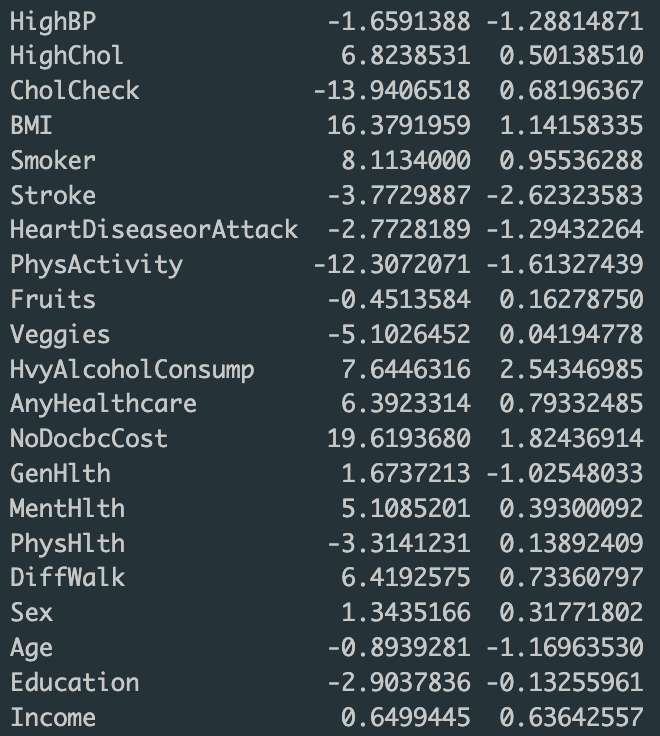
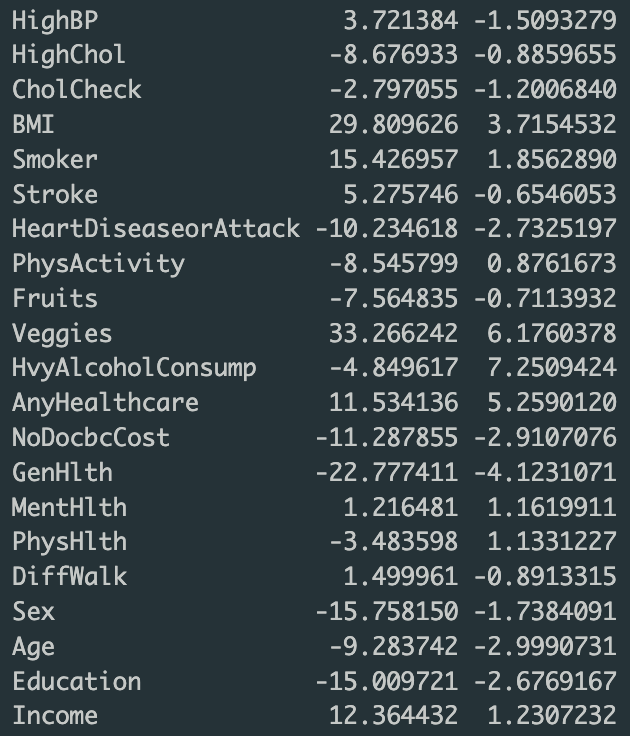
Add files via upload

Changed region(s): [[0.4825, 0.0, 0.9952, 1.0], [0.0, 0.0, 0.4825, 1.0]]

diff --git a/project 6.html b/project 6.html
@@ -334,10 +334,11 @@ Y_hat <- sigmoid(Z_3)
 								<p>
 									<h3>Backward Propagation</h3>
 									Now that we have our matrices initialized, we can begin propagating forward and backward through the network, taking a step in the direction
-									of steepest descent each time. We need to set two values: learning rate and number of steps. Recall, the learning rate controls how far we 
+									of steepest descent each time. Recall, the learning rate controls how far we 
 									move in the direction of steepest descent, or how big our 'step' is. If we make the learning rate too big (like 0.9) then our model will likely
 									trust the direction too much and 'overstep', leading the model off course; too small, and our model will require many propagation interations
-									to be optimized, which would be computationally expensive. The number of steps controls the number of propagation iterrations our model executes.
+									to be optimized, which would be computationally expensive. The convergence boolean controls the number of propagation iterrations our model executes.
+									When weight values are optimized, the algorithm halts.
 								<pre>
 									<code style="background-color:#33475b;color:white">
 ######### Partial Derrivative of Activation Function  ######### 
@@ -347,8 +348,9 @@ sigmoidprime <- function(z){
 								
 ######### Gradient Descent ######### 
 learning_rate <- 0.01
-steps <- 10000
-for(i in 1:steps){
+W_1_old <- matrix(rep(0, 42), nrow = 21, ncol = 2)
+converge <- FALSE
+while(!converge){
   ## initialize weights, runs it through activation function, calculate y_hat
   Z_2 <- X %*% W_1
   A_2 <- sigmoid(Z_2)
@@ -364,11 +366,20 @@ for(i in 1:steps){
   ## update weights
   W_1 <- W_1 - learning_rate * djdw1
   W_2 <- W_2 - learning_rate * djdw2
+
+  ## determine convergence
+  w1round <- sum(round(W_1, 4))
+  w1round_old <- sum(round(W_1_old, 4))
+  if(w1round != w1round_old){
+    W_1_old = W_1
+  }else{
+    converge = TRUE
+  }
 }</code>
 								</pre>	
 								<p>
 									That's it! Using the coded algorithm above, we found the optimal weights. Testing the accuracy of our predictions using cross-validation, this model is about
-									80% accurate overall in its predictions.
+									84% accurate overall in its predictions.
 								</p>
 								<h2><hr><center>Diabetes Status Calculator</center><hr></h2>
 							<p>
@@ -566,27 +577,27 @@ for(i in 1:steps){
 								function getSelectedValue() {
 								// Given elements
 								var elements = [
-								-1.6591388 ,-1.28814871,
-								6.8238531 , 0.50138510,
-								-13.9406518,  0.68196367,
-								16.3791959 , 1.14158335,
-								8.1134000  ,0.95536288,
-								-3.7729887 ,-2.62323583,
-								-2.7728189 ,-1.29432264,
-								-12.3072071, -1.61327439,
-								-0.4513584 , 0.16278750,
-								-5.1026452 , 0.04194778,
-								7.6446316  ,2.54346985,
-								6.3923314  ,0.79332485,
-								19.6193680 , 1.82436914,
-								1.6737213 ,-1.02548033,
-								5.1085201 , 0.39300092,
-								-3.3141231,  0.13892409,
-								6.4192575 , 0.73360797,
-								1.3435166 , 0.31771802,
-								-0.8939281, -1.16963530,
-								-2.9037836, -0.13255961,
-								0.6499445 , 0.63642557,
+								3.721384 ,-1.5093279,
+								-8.676933, -0.8859655,
+								-2.797055, -1.2006840,
+								29.809626,  3.7154532,
+								15.426957,  1.8562890,
+								5.275746 ,-0.6546053,
+								-10.234618, -2.7325197,
+								-8.545799 , 0.8761673,
+								-7.564835 ,-0.7113932,
+								33.266242 , 6.1760378,
+								-4.849617 , 7.2509424,
+								11.534136 , 5.2590120,
+								-11.287855, -2.9107076,
+								-22.777411, -4.1231071,
+								1.216481  ,1.1619911,
+								-3.483598 , 1.1331227,
+								1.499961 ,-0.8913315,
+								-15.758150, -1.7384091,
+								-9.283742 ,-2.9990731,
+								-15.009721, -2.6769167,
+								12.364432 , 1.2307232
 								];
 
 								// Create a matrix with 6 rows and 3 columns
@@ -603,8 +614,8 @@ for(i in 1:steps){
 
 								// Given elements
 								var elements = [
-								-4.155091,  4.155091,
-								5.552493, -5.552493,
+								-12.97498,  12.97498,
+								14.77484 ,-14.77484
 								];
 
 								// Create a matrix with 3 rows and 3 columns
